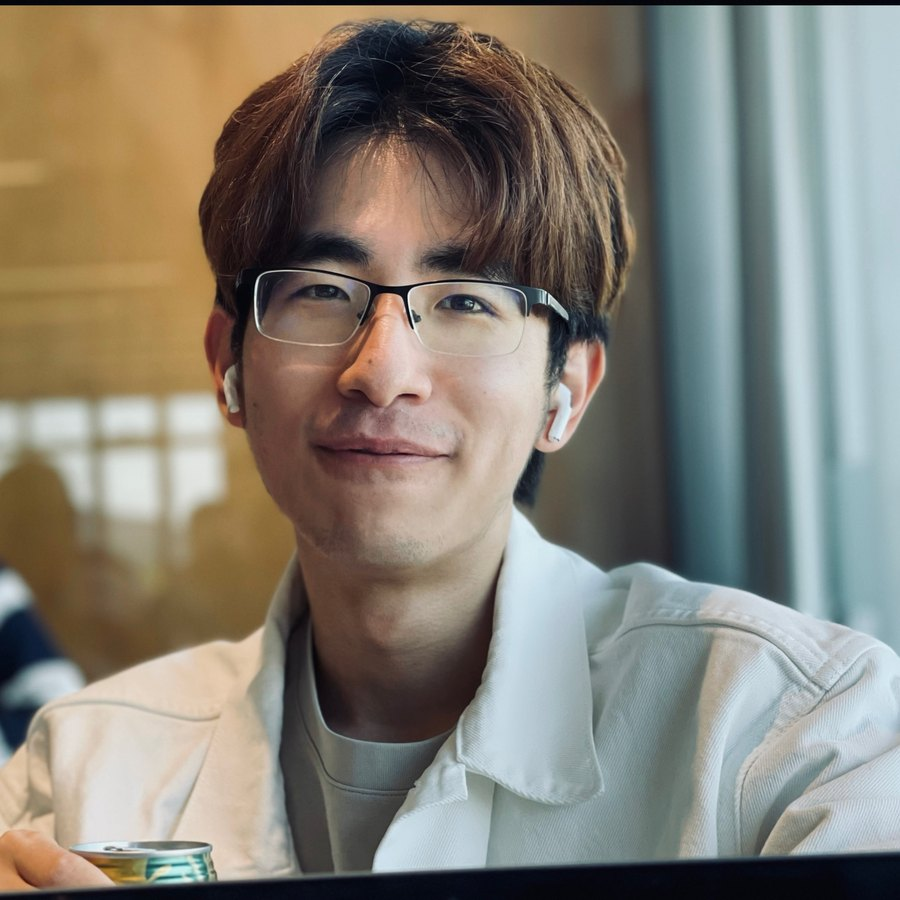
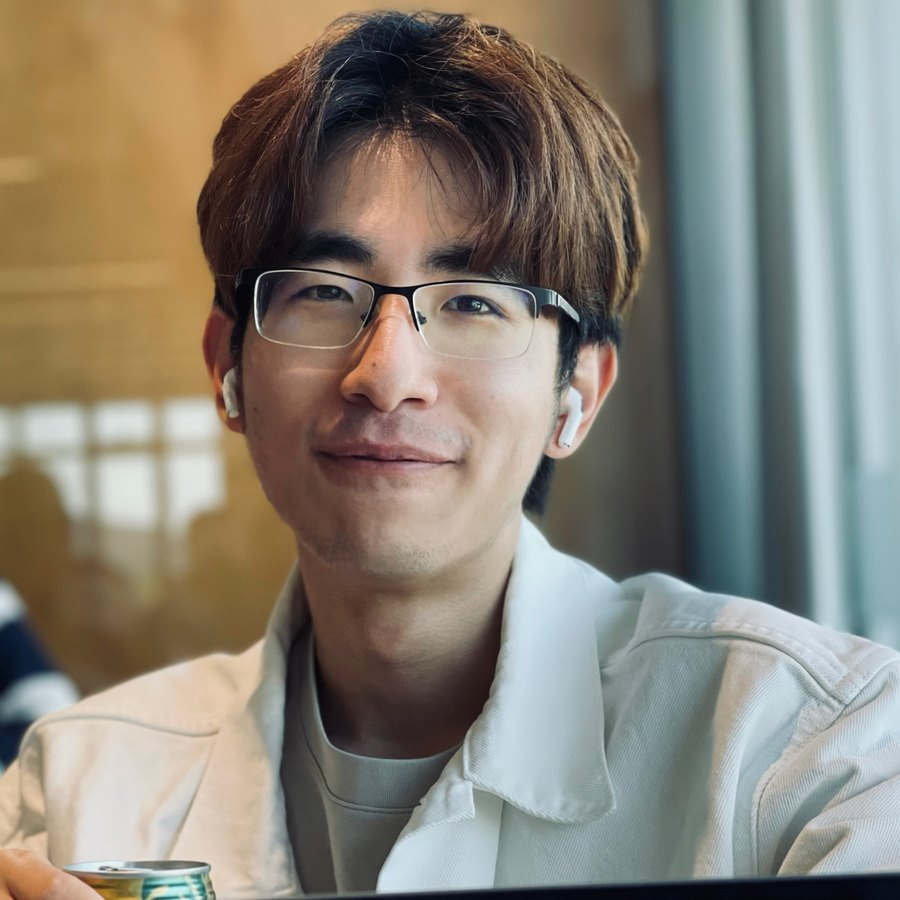
Home: tighter headshot crop, wrap the budget line in the diagram, close the gap above the footer

diff --git a/assets/css/custom.css b/assets/css/custom.css
@@ -102,6 +102,7 @@ body {
 
 .home section { margin: 0 0 4.2em; }
 .home section:first-child { margin-top: 2.6em; }
+.home section:last-child { margin-bottom: 1em; }
 
 /* section label */
 .home .page__content h2.label {
